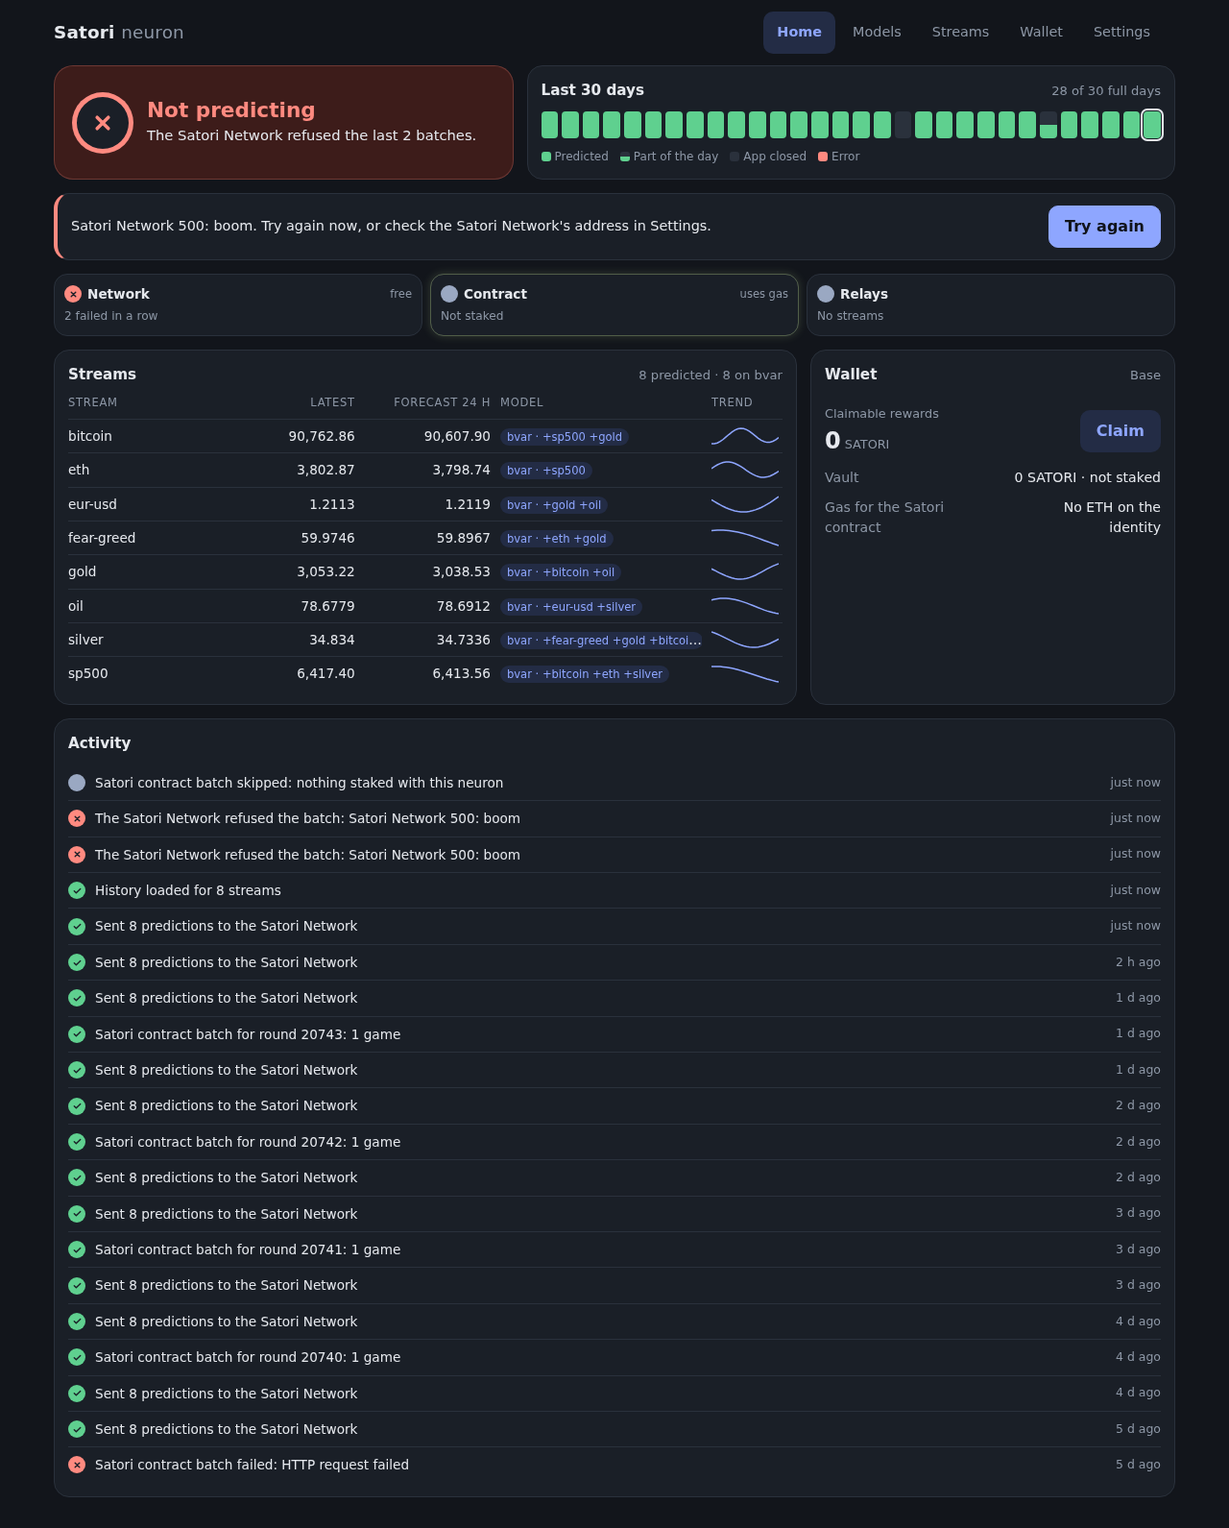
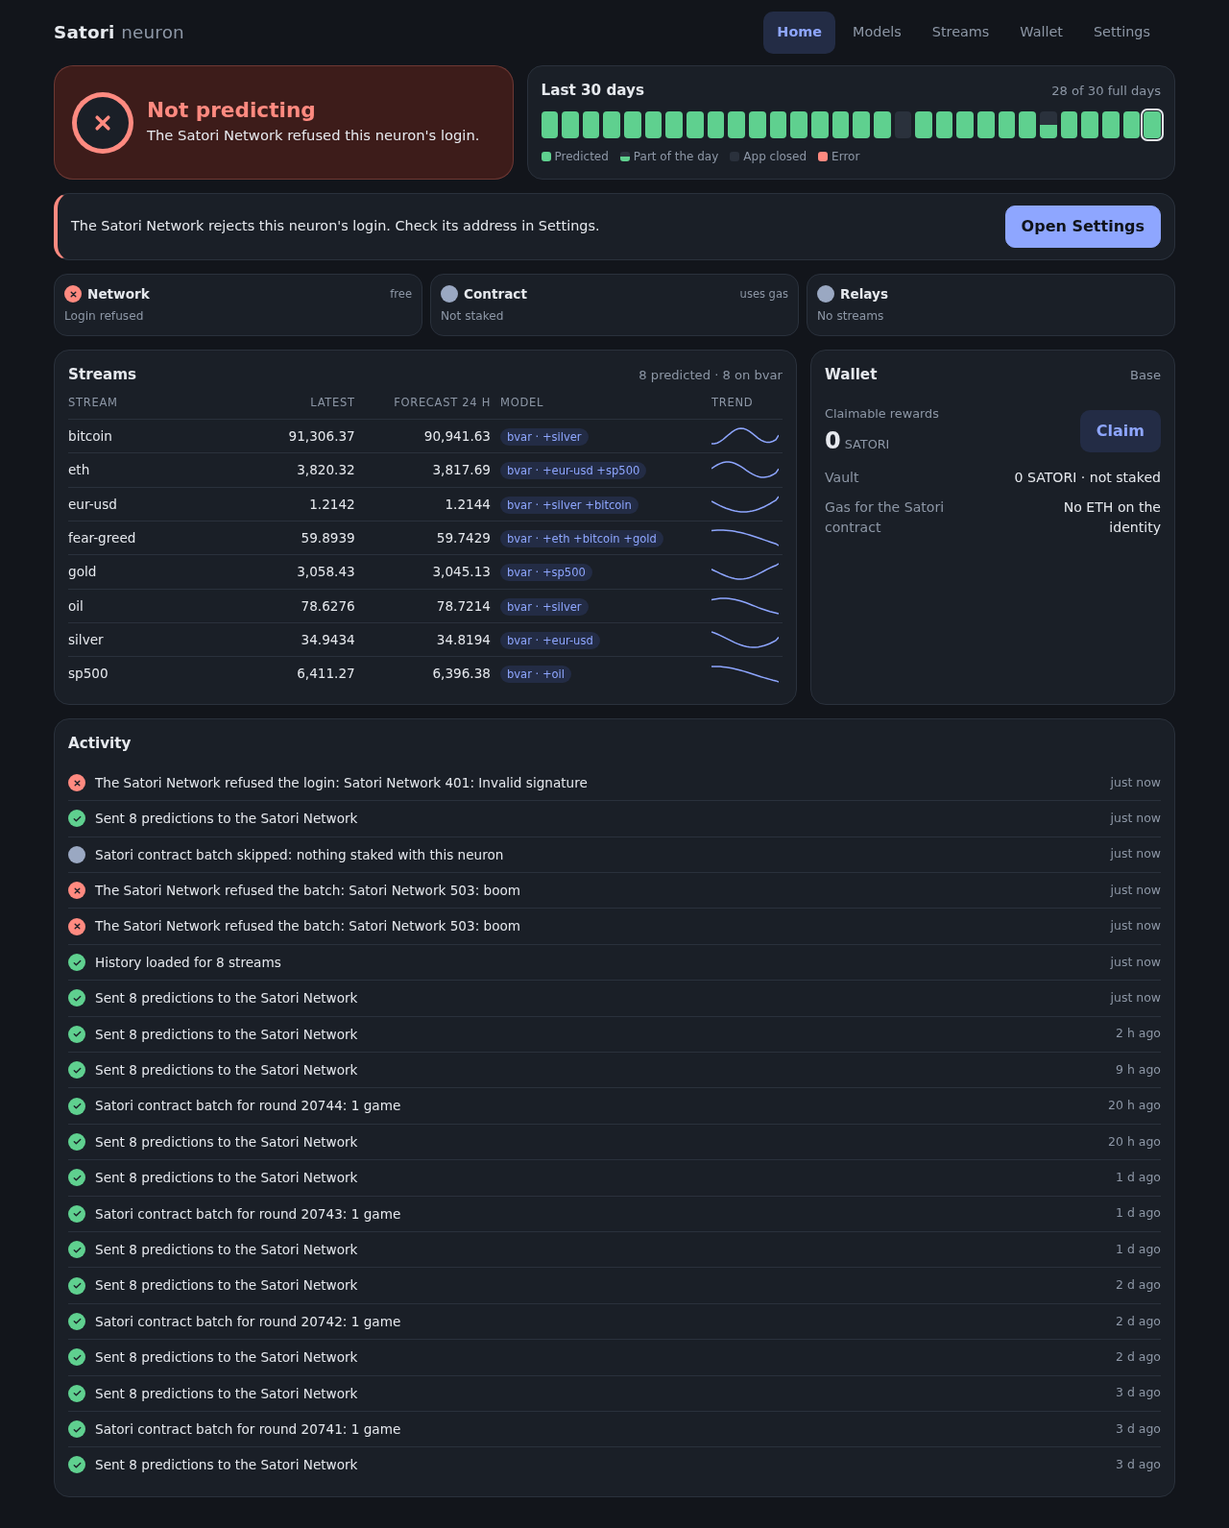
docs: retries, the red threshold and the failure words (central, health, storage, llms.txt); the retrying and bad screenshots

diff --git a/docs/design/central.md b/docs/design/central.md
@@ -38,7 +38,7 @@ Short names: `start.py` = `neuron/neuron-lite/start.py`; `engine.py` =
 |---|---|---|
 | Register | On every start, `authWithCentral` (`start.py:4976-5006`) reads the vault's address and `publicKey` from `vault.yaml` without decrypting it (`start.py:4637-4667`) and calls `checkin` → `POST /api/v1/peer/register` with headers `wallet-pubkey` (identity), `vault-pubkey`, optional `nostr-pubkey`, `neuron-version` (`v3.2.13`); no body, no token, 10 s timeout; only when there is a vault pubkey; a failure is only logged (`server.py:384-434`). | The same on every page load, with `nostr-pubkey` (the Nostr key, [nostr.md](nostr.md)) and `neuron-version: browser-<package version>`. The vault's public key is in clear in the keys record ([keys.md](keys.md#the-record)), so it is always sent. The result is shown, never retried in a loop. |
 | Central's side | Creates the peer, or for a known identity sets the vault only if none is stored yet; a vault that conflicts with another peer is silently dropped (`vault_base_address: null`); an identity conflict is a 409 (`c/main.py:772-907`). | Compares the returned `vault_base_address` (the Base address central pays this vault's rewards to) with our vault's Base address, case-insensitively, and shows a **vault mismatch** with both addresses when they differ, or when central has none ([below](#the-vault-in-registers-answer)). The result is `vaultMismatch: false \| 'other' \| 'none' \| null` (null: a central without the field, unknown). |
-| Schedule | First poll after `random.randint(300, 1800)` s (`start.py:4777-4779`), on every start, then `sleep(11 h)` after every poll, whatever the result (`start.py:4785-4876`). | The first poll right after register, with no random wait: a new neuron at once, a reopened one at once when a poll came due while it was closed; then 11 h after every poll, as Lite. `meta.next_poll_at` is stored, so a reload keeps a time still ahead (see Deviations). **Poll now** runs a cycle at once. A poll whose time passed while the device slept with the page open runs within one heartbeat of waking ([the catch-up pass](../plans/runtime.md#catch-up-pass)). |
+| Schedule | First poll after `random.randint(300, 1800)` s (`start.py:4777-4779`), on every start, then `sleep(11 h)` after every poll, whatever the result (`start.py:4785-4876`). | The first poll right after register, with no random wait: a new neuron at once, a reopened one at once when a poll came due while it was closed; then 11 h after every good poll, as Lite; after a failed cycle it tries again 2, 10 and 30 min later, then on the 11 h rhythm ([Errors](#errors)). `meta.next_poll_at` is stored, so a reload keeps a time still ahead (see Deviations). **Poll now** runs a cycle at once. A poll whose time passed while the device slept with the page open runs within one heartbeat of waking ([the catch-up pass](../plans/runtime.md#catch-up-pass)). |
 | Poll | `GET /api/v1/observations/batch?limit=100` (`server.py:1304-1377`). Central returns each stream's latest observation if under 48 h old (`c/main.py:292-341`). `value` and `observed_at` are strings. | Same call, no token (central needs none). |
 | Store | `value` = float; epoch = `observed_at`, falling back to `ts` (`data_helper.py:40-93`), truncated to whole seconds (`engine.py:669-673`); `INSERT OR IGNORE` on `(stream_uuid, epoch)` (`stream_store.py:48-56,150-170`); the stream's name/meta are upserted (`server.py:1334-1358`). | Same rule into `observations (stream_uuid, ts, value)`, primary key `(stream_uuid, ts)`; `streams (uuid, name, meta)`. Rows with no stream, no finite value or no time are dropped. |
 | Which streams | Every stream in the batch; a model predicts only when its stream got a **newly inserted** row (`engine.py:695-712`, test at `:707`). | Each stream in the batch whose latest stored observation has **no prediction made from it** (`db.unpredicted()`: newer than `streams.predicted_ts`, which each prediction sets): a new row, as in Lite, and also a row an interrupted cycle stored but never forecast (a reload mid-poll, a local failure). An observation is still predicted once ([Deviations](#deviations-from-satori-lite-and-why)). |
@@ -57,7 +57,7 @@ other `server.py` methods for routes central-lite does not serve.
 
 | Call | Auth | Central | When |
 |---|---|---|---|
-| `POST /api/v1/peer/register` (headers `wallet-pubkey`, `vault-pubkey`, `nostr-pubkey`, `neuron-version`) → `{success, peer_id, wallet_address, vault_address, vault_base_address, nostr_pubkey, message}` (only `peer_id`, `message` and `vault_base_address` are read) | none | `c/main.py:772-907`; `vault_base_address` since `base-upgrade` d8a2085 | every page load; again when the central URL changes |
+| `POST /api/v1/peer/register` (headers `wallet-pubkey`, `vault-pubkey`, `nostr-pubkey`, `neuron-version`) → `{success, peer_id, wallet_address, vault_address, vault_base_address, nostr_pubkey, message}` (only `peer_id`, `message` and `vault_base_address` are read) | none | `c/main.py:772-907`; `vault_base_address` since `base-upgrade` d8a2085 | every page load; again when the central URL changes; before each poll while the last one failed |
 | `GET /api/v1/observations/batch?limit=100` → `[{id, observed_at, value, hash, stream_id, stream: {uuid, name, meta, …}, ts, stream_uuid}]` | none | `c/main.py:292-341` | each poll |
 | `GET /api/v1/observations/history?stream_uuid=<uuid>&limit=1000&since=<now − 1,000 h>` → `[{id, stream_uuid, observed_at, value, ts}]`, oldest first | none | `central` bc043d2 (the most recent `limit` rows; 404 `Stream not found: <uuid>` for an unknown or malformed uuid, 422 for a bad limit or since); not deployed on central2 yet (404 `Not Found`) | once per stream ([below](#history-an-addition-beyond-lite)) |
 | `GET /api/v1/auth/challenge` → `{challenge}` (a UUID) | none | `c/main.py:268-281` | before each login |
@@ -236,7 +236,27 @@ relay list and Base's config are read from the new central at once.
 - Central's own errors carry `{detail}` and are shown as `central <status>: <detail>`.
 - Register, poll and submit failures are logged to the console, stored in the
   status (last poll, last submission), logged in the activity log and shown on
-  Home ([health.md](health.md)) and on Streams. A local failure in a
+  Home ([health.md](health.md)) and on Streams. A failure that never reached
+  central (a network error or a timeout: status 0) carries `unreachable:
+  true`, so Home names it ("Couldn't reach the Satori Network") apart from
+  a refused batch ("Sending failed") and a refused login.
+- **Retries** (2026-10-19). A failed cycle (its poll or submission failed, a
+  local failure, or central took none of the batch: `failedCycle`) is tried
+  again 2, 10 and 30 min later (`RETRY_S`), then on the 11 h rhythm, whose
+  try, if it fails too, gets the same three; a good cycle sets the next poll
+  11 h after it (`nextPollAfter`). When the browser fires `online` after a
+  failure, the poll runs at once. The time is `meta.next_poll_at` and the
+  count `meta.poll_failures`, so a reload keeps both: a reload 1 min after
+  the second failure still waits the 10 min, and the next failure 30.
+  `status().central.failures` is the count. Before, one failed send waited
+  the full 11 h, and a second failure minutes later (a manual Try again)
+  turned Home red. Home stays amber while it retries, and goes red only once
+  nothing good went out for a cycle's 12 h of open time
+  ([health.md](health.md#reasons-in-priority-order)).
+- **Register again.** While the last register failed, each poll registers
+  first (Home's step "Signing in to the Satori Network…"), until it succeeds;
+  a poll runs whatever register's result. Lite registers on every start, and
+  restarts daily. A local failure in a
   cycle (a database write) is logged with `console.error` and shown as the last
   poll's error. Nothing throws out of the schedule: the next timer is set
   before `next_poll_at` is saved, and a failed save is only logged.
@@ -258,7 +278,8 @@ relay list and Base's config are read from the new central at once.
 | Login signs central's challenge UUID (`GET /auth/challenge`), not `str(time.time())` (`server.py:91`). | Central accepts any signed message today (`c/auth.py:45`); the challenge keeps working when central makes challenges single-use ([issue](../issues/central-login-replayable.md)). |
 | A fresh login for each submission; no stored token, no refresh. | The token lives 1 h and the neuron submits every 11 h. |
 | The observations GET sends no token; satorilib sends one through `_makeAuthenticatedCall` (`server.py:1322`). | Central does not ask for one (`c/main.py:292-293`), and the poll then never needs a login. |
-| Register is not retried in a loop (Lite's `authWithCentral` backs off from 30 s up to 6 h, `start.py:4976-5006`). It runs again on the next load or a central URL change. | In practice Lite does not retry either: `checkin` swallows register errors (`server.py:405-414`) and `_getChallenge` falls back to a timestamp when central is down (`server.py:65-85`), so `checkin` almost never raises and the backoff almost never fires. |
+| A failed register is tried again before each poll until it succeeds (and on the next load or a central URL change), not in a loop of its own (Lite's `authWithCentral` backs off from 30 s up to 6 h, `start.py:4976-5006`). | In practice Lite does not retry in that loop: `checkin` swallows register errors (`server.py:405-414`) and `_getChallenge` falls back to a timestamp when central is down (`server.py:65-85`), so `checkin` almost never raises; Lite registers again on every start, and restarts daily. Before each poll is that cadence, with the retries below. |
+| A failed cycle is tried again 2, 10 and 30 min later, then every 11 h; Lite waits 11 h whatever the result (`start.py:4785-4876`). | A browser neuron runs only while open: a send that failed for a blip (a network change, a 502) would otherwise lose a whole cycle of a short session. The retries are three requests per failure, under central's limits. |
 | No per-prediction signature (step 1 signed each prediction locally). | Lite does not sign predictions; the login signature authenticates the batch. |
 | Prediction numbers are sent as JS prints them (`100`, `1e-7`), not as Python's `str` (`100.0`, `1e-07`). | Central reads them with `float()`; nothing depends on the layout ([the protocol audit](#the-protocol-audit)). |
 | The register result checks the vault (`vaultMismatch`, with both Base addresses); Lite ignores register's answer (`server.py:402-405`). | Central keeps the first vault registered for an identity and pays that vault's Base address: a mismatch means this vault is not paid ([the vault in register's answer](#the-vault-in-registers-answer)). |

diff --git a/docs/design/health.md b/docs/design/health.md
@@ -138,13 +138,13 @@ button).
 |---|---|---|---|---|---|---|
 | 1 | `db-error` | bad | nothing is stored or forecast, so nothing goes out | network | the last cycle failed locally (the database or the engine) | Reload |
 | 2 | `login-refused` | bad | central takes nothing from this neuron until it is fixed | network | the last cycle's login was refused (after its one retry) | Open Settings (central) |
-| 3 | `central-failing` | bad | two cycles in a row sent nothing: predictions are failing | network | the last 2 cycles failed | Try again (a poll) |
+| 3 | `central-failing` | bad | the failures span a real cycle: nothing went out for 12 h of open time | network | the last cycle failed, and no good cycle within `WINDOW_S` of open time (`FIRST_S` with none yet) | Try again (a poll) |
 | 4 | `central-overdue` | bad | nothing went out for a whole cycle of open time | network | no good cycle within `WINDOW_S` of open time (`FIRST_S` with none yet) | Poll now |
 | 5 | `base-failing` | bad | the paying Base batch keeps failing: each round's earning is lost | contract | the batch check failed twice in a row while Base is in use (staked, or a batch sent before) | Open Settings (Base) |
 | 6 | `relays-down` | bad | the streams the person subscribed are not predicted at all | relays | streams are subscribed and every relay is down | Open Settings (relays) |
-| 7 | `central-failed` | warn | one cycle sent nothing; it retries on its own, but something may need fixing | network | the last cycle failed (once) | Try again |
+| 7 | `central-failed` | warn | it retries in minutes on its own (2, 10, 30 min), but something may need fixing | network | the last cycle failed (once or more), within `WINDOW_S` of open time of the last good one | Try again |
 | 8 | `vault-mismatch` | warn | central pays this vault's rewards to another address, or to none: earning lost | network | register's `vault_base_address` is another Base address than this vault's (the card shows both), or null (central has no vault for this identity); not when a central does not send it | Open Settings (keys) |
-| 9 | `not-registered` | warn | central may not count or pay this neuron until it registers | network | registering failed | Reload |
+| 9 | `not-registered` | warn | central may not count or pay this neuron until it registers | network | registering failed (each poll registers again first, until it succeeds) | Try again (a poll) |
 | 10 | `stake` | warn | the vault's SATORI earns nothing on Base until it is staked (with no SATORI there is no reason: the Base chip is off, grey) | contract | not staked, and the vault holds SATORI: "Your vault's SATORI isn't earning on Base. Stake with this neuron." | Stake |
 | 11 | `gas-low` | warn | under 7 days of batches left, then Base earning stops; only the person can add ETH | contract | staked, and the identity's ETH pays for under 7 batches | Add gas (Wallet) |
 | 12 | `base-skipped` | warn | this round's Base batch, and its earning, is lost unless it is fixed | contract | staked, and this round's check skipped for a fixable reason (the gas ceiling; no game passed its simulation) | Open Settings (Base) / Open Wallet |
@@ -154,6 +154,21 @@ button).
 | 16 | `backup` | advice | nothing is wrong: the browser may clear storage some day, and a backup protects the vault | – | storage is not persistent and no backup is confirmed | Back up |
 | 17 | `install` | advice | nothing is wrong now: installed, Satori stays open in its own window and misses less | – | *Was asleep*, and the browser offers Install | Install |
 | 18 | `relay-down` | advice | another relay still carries the predictions and it keeps retrying; the network is not paid | relays | streams are subscribed and some relay, not all, is down | Open Settings (relays) |
+
+**Failures, by what failed** (2026-10-19). The line and the chip name it:
+"Sending failed" (central refused the batch, or took none of it), "Couldn't
+reach the Satori Network" (chip "Unreachable": a network error or a
+timeout, the row's `unreachable`), "The poll failed" (central answered the
+observations with an error), "Login refused". While it retries the line says
+when: "Sending failed; next try in 2 min." ("trying again now…" while the
+poll runs), the card the error: "Satori Network 503: boom. It tries again in
+2 min; try now if something was fixed." Red only once the failures span a
+real cycle: "Nothing sent for 13 h: sending failed." A failed login is red
+at once (only the person can fix it), as a database failure is. Before, any
+failure read "The last poll failed; next try in 11 h", and a second one, even
+a manual retry minutes after predictions were accepted, turned Home red
+("Not predicting", "2 failed in a row"); the review saw both
+([central.md](central.md#errors) has the retries).
 
 `asleep` and `starting` are neither warn nor advice: they are the calm
 states the title names (*Was asleep*, *Starting*), their line says what the
@@ -195,8 +210,8 @@ predicting* (it read a red *Predicting*), also while catching up after
 being asleep; not staked, a red Base leaves the title to central. Once
 caught up after being asleep it is *Predicting*, its status still `idle`
 until the next normal cycle (sky green on Home, not grey). `src/neuron/health.test.js` checks every one of these states
-(starting, asleep, caught up, predicting, retrying after one failed poll,
-failing) with every reason (a table).
+(starting, asleep, caught up, predicting, retrying after a failed poll,
+failing for over 12 h of open time) with every reason (a table).
 
 The line is the top reason's short text (advice has none), after "The
 Satori Network is fine." when the network channel has no reason. With no reason, or only advice, it is
@@ -213,7 +228,7 @@ set by the code doing the work; nothing polls:
 
 | task | step | words (Home) | critical |
 |---|---|---|---|
-| `central` | `register` | Signing in to the Satori Network… (only when a poll follows at once: a new neuron, or one reopened with a poll due) | |
+| `central` | `register` | Signing in to the Satori Network… (only when a poll follows at once: a new neuron, or one reopened with a poll due; and in a poll that registers again first, the last register having failed) | |
 | | `observations` | Fetching today's observations… (the batch, stored) | |
 | | `history` | Loading history · 34 of 82 streams (the streams in hand; [central.md](central.md#history-an-addition-beyond-lite)) | |
 | | `models` | Building models · 40 of 82 (the engine yields to the page between targets: the same results) | |
@@ -338,9 +353,10 @@ health.js map them).
 - **Network** (the Satori Network): ok "83 sent 2 h ago", or "Up to date · next in 9 h" when
   the last poll had nothing to send (never "0 sent"); idle "First poll now…",
   "Catching up now…" (while the poll runs; "Catching up soon" when due and
-  not yet running, "… in 2 h" when a poll is still ahead); warn "Last poll failed", "Vault mismatch",
-  "Not registered"; bad "Database error", "Login refused", "2 failed in a
-  row", "Nothing sent for 14 h".
+  not yet running, "… in 2 h" when a poll is still ahead); warn "Sending failed",
+  "Unreachable", "Poll failed", "Vault mismatch", "Not registered"; bad
+  "Database error", "Login refused", the same failure words once they span
+  12 h of open time, "Nothing sent for 14 h".
 - **Contract** (the Satori contract): ok "Round 20742 sent", "Round 20742 due"; idle "Not staked"
   (no SATORI), "Staked elsewhere", "No SATORI staked", "Connecting…"; warn
   "Not staked", "Gas: 3 batches", "Skipped: …", "Unreachable"; bad "Failed 3
@@ -450,8 +466,13 @@ session that missed nothing is not shown.
   sleep, merges, the 90-day prune, caught up, the log's first session.
   `src/db/db.test.js`: the table. `src/ui/format.test.js`: the strip's
   summary.
+- `src/neuron/neuron.test.js`: the retries (2, 10, 30 min, then 11 h; a
+  success resets them; kept over a reload; `online` at once).
 - `e2e/home.spec.js`: the four states in Chrome with the stub central and a
-  fake chain (idle from a seeded log); a new neuron (29 days before it,
+  fake chain (idle from a seeded log); the send failing twice (a poll, then
+  Try again minutes later) and then taken: amber, amber, green, never red
+  (a MutationObserver on the hero), then a refused login red; a register
+  that fails twice, then succeeds before a later poll; a new neuron (29 days before it,
   "0 full days", then "1 full day"); a new neuron with a vault mismatch
   (*Starting* in `health()` and on Home, the mismatch's card; *Predicting*
   after the first poll); a chip glowing while central's stub serves a poll
@@ -544,7 +565,12 @@ each state on a phone (390 × 844, the first screen) and a computer (1280
 wide), light and dark, `docs/screenshots/home-<state>-<phone|desktop>-<light|dark>.png`
 for `ok`, `idle`, `warn` and `bad`, and `new` (a new neuron's first day).
 
-<img src="../screenshots/home-ok-phone-light.png" alt="ok: predicting" width="240"> <img src="../screenshots/home-idle-phone-light.png" alt="idle: caught up after being asleep, predicting" width="240"> <img src="../screenshots/home-warn-phone-dark.png" alt="warn: Base needs one step" width="240"> <img src="../screenshots/home-bad-phone-dark.png" alt="bad: central refused two batches" width="240">
+<img src="../screenshots/home-ok-phone-light.png" alt="ok: predicting" width="240"> <img src="../screenshots/home-idle-phone-light.png" alt="idle: caught up after being asleep, predicting" width="240"> <img src="../screenshots/home-warn-phone-dark.png" alt="warn: Base needs one step" width="240"> <img src="../screenshots/home-bad-phone-dark.png" alt="bad: the Satori Network refused the login" width="240">
+
+A failed send, retried (`e2e/home.spec.js`, the second failure minutes
+after the first: amber, "Sending failed; next try in 10 min."; it was red):
+
+<img src="../screenshots/home-retrying-phone-light.png" alt="Sending failed; next try in 10 min." width="240"> <img src="../screenshots/home-retrying-phone-dark.png" alt="the same, dark" width="240">
 
 ![ok on a computer](../screenshots/home-ok-desktop-light.png)
 

diff --git a/docs/design/storage.md b/docs/design/storage.md
@@ -264,7 +264,8 @@ Each value is JSON text.
 | `wallet_yaml`, `vault_yaml`, `nostr_yaml` | gone: earlier versions' Docker texts, moved into `keys` by migration 7 (left only where a setup was cut off) | earlier versions |
 | `vault` | the step-1 prototype's sealed key; never read, never deleted | the step-1 prototype |
 | `central_url` | the Settings URL; `''` = the default | Settings, `setCentral` |
-| `next_poll_at` | when the next poll is due, so a reload keeps the 11 h cadence ([central.md](central.md)) | each poll's schedule |
+| `next_poll_at` | when the next poll is due, so a reload keeps the 11 h cadence and a failed cycle's retry ([central.md](central.md#errors)) | each poll's schedule |
+| `poll_failures` | failed cycles in a row (0 after a good one), so a reload keeps the retries' place (2, 10, 30 min, then 11 h) | each poll's schedule |
 | `central_last_poll` | the last poll: `{ at, streams, new, predicted }` or `{ at, error }` (`local: true`: the database or the engine failed, not central) | each cycle; dropped with another central |
 | `central_last_submit` | the last predictions batch: `{ at, total_submitted, successful, failed, errors }` or `{ at, error, total_submitted }` (`login: true`: central refused the login) | each cycle with something pending; dropped with another central |
 | `backup_at` | when the vault's backup was confirmed (its words confirmed at Create, given at Restore, or shown under Backup; a Dockerized Neuron's files): Home stops asking for a backup while storage is not kept ([health.md](health.md)) | setup; Backup |
